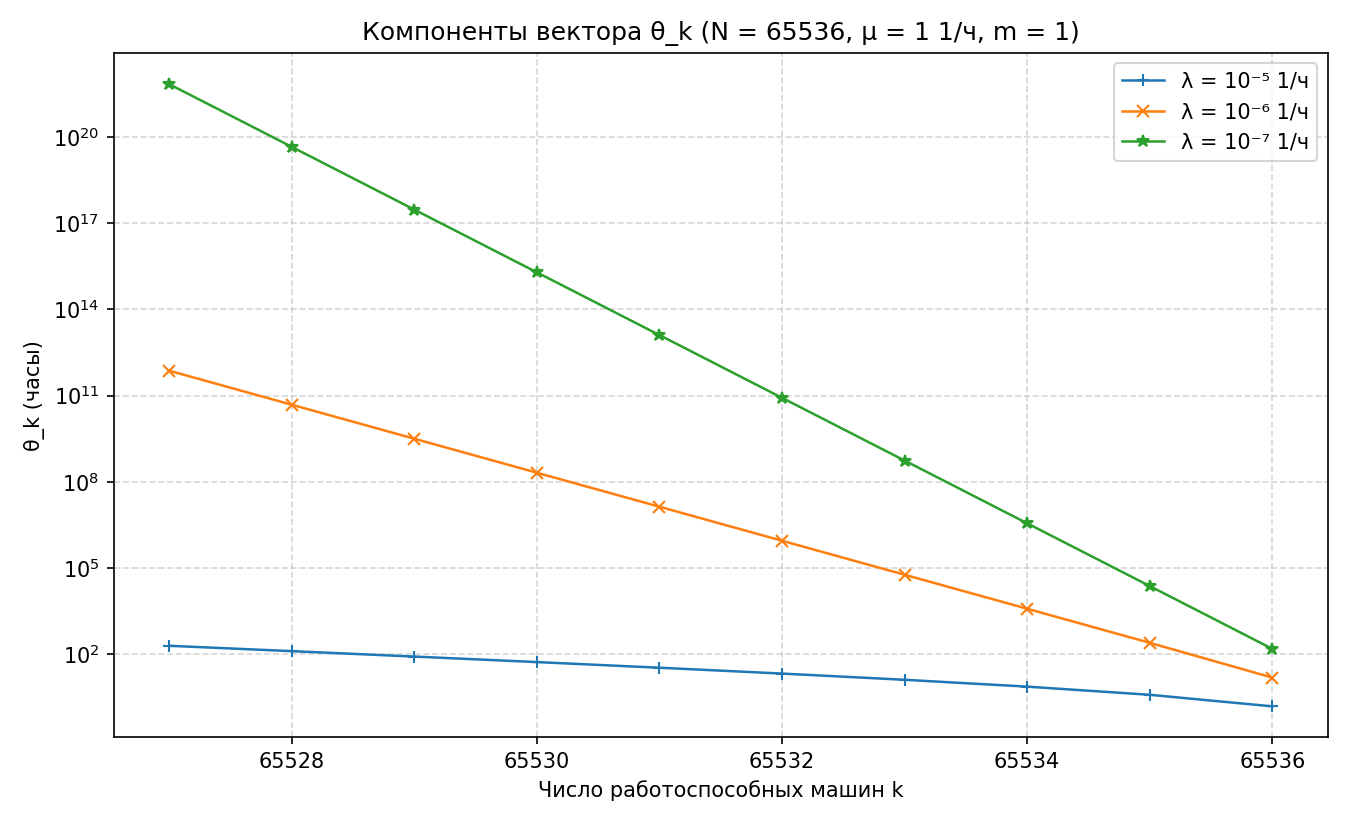
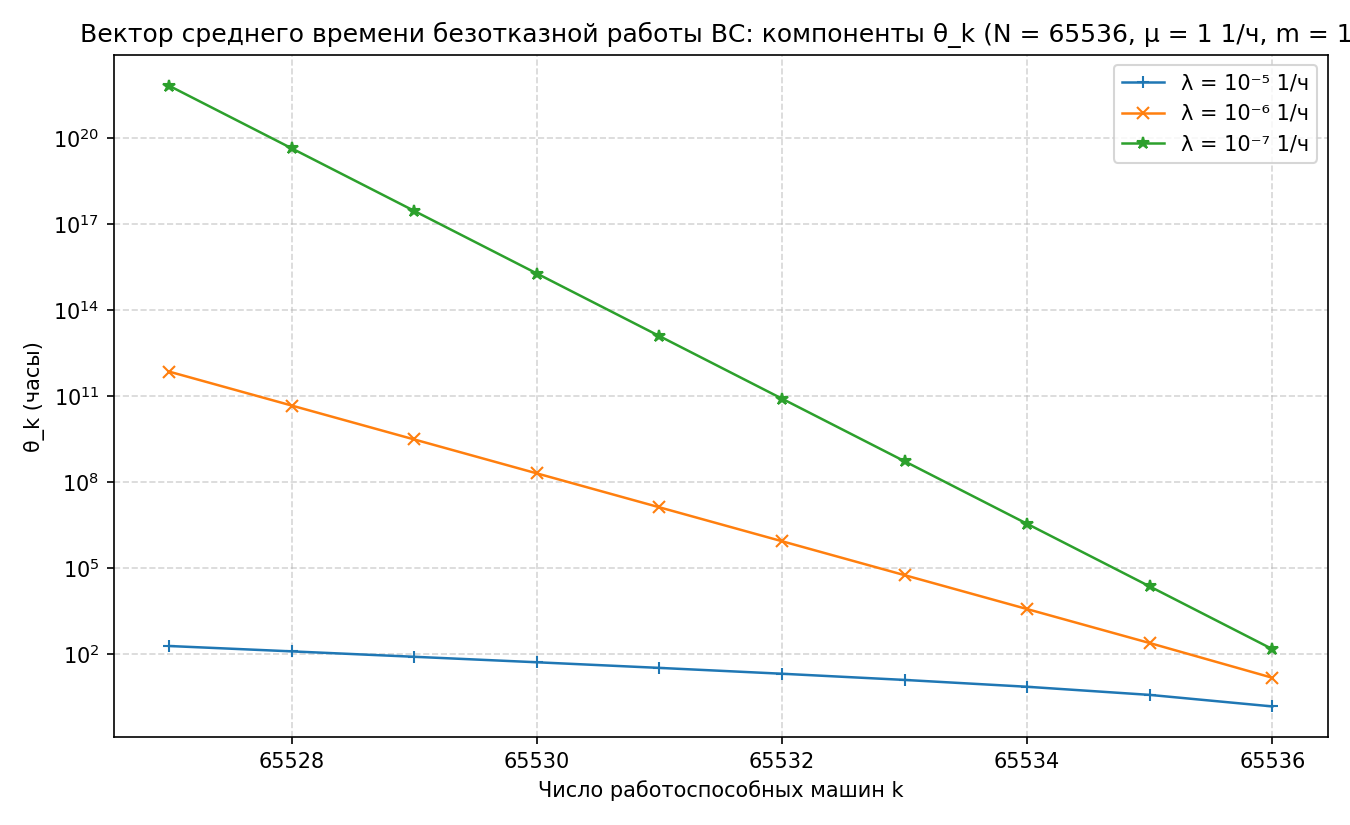
lab5

diff --git a/lab5/plot_py.py b/lab5/plot_py.py
@@ -1,4 +1,4 @@
-"""Matplotlib fallback for all 6 Lab 5 graphs."""
+"""Matplotlib fallback for all 8 Lab 5 graphs."""
 
 import os
 
@@ -27,7 +27,7 @@ labels = ["μ = 1 1/ч", "μ = 10 1/ч", "μ = 100 1/ч", "μ = 1000 1/ч"]
 markers = ["+", "x", "*", "s"]
 for i, (lbl, mk) in enumerate(zip(labels, markers)):
     ax.semilogy(d[:, 0], d[:, i + 1], label=lbl, marker=mk, markersize=6, linewidth=1.2)
-ax.set_title("Компоненты вектора θ_k (N = 65536, λ = 10⁻⁵ 1/ч, m = 1)")
+ax.set_title("Вектор среднего времени безотказной работы ВС: компоненты θ_k (N = 65536, λ = 10⁻⁵ 1/ч, m = 1)")
 ax.set_xlabel("Число работоспособных машин k")
 ax.set_ylabel("θ_k (часы)")
 ax.grid(True, which="both", linestyle="--", alpha=0.5)
@@ -40,7 +40,7 @@ labels = ["λ = 10⁻⁵ 1/ч", "λ = 10⁻⁶ 1/ч", "λ = 10⁻⁷ 1/ч"]
 markers = ["+", "x", "*"]
 for i, (lbl, mk) in enumerate(zip(labels, markers)):
     ax.semilogy(d[:, 0], d[:, i + 1], label=lbl, marker=mk, markersize=6, linewidth=1.2)
-ax.set_title("Компоненты вектора θ_k (N = 65536, μ = 1 1/ч, m = 1)")
+ax.set_title("Вектор среднего времени безотказной работы ВС: компоненты θ_k (N = 65536, μ = 1 1/ч, m = 1)")
 ax.set_xlabel("Число работоспособных машин k")
 ax.set_ylabel("θ_k (часы)")
 ax.grid(True, which="both", linestyle="--", alpha=0.5)
@@ -53,12 +53,22 @@ labels = ["m = 1", "m = 2", "m = 3"]
 markers = ["+", "x", "*"]
 for i, (lbl, mk) in enumerate(zip(labels, markers)):
     ax.semilogy(d[:, 0], d[:, i + 1], label=lbl, marker=mk, markersize=6, linewidth=1.2)
-ax.set_title("Компоненты вектора θ_k (N = 65536, λ = 10⁻⁵ 1/ч, μ = 1 1/ч)")
+ax.set_title("Вектор среднего времени безотказной работы ВС: компоненты θ_k (N = 65536, λ = 10⁻⁵ 1/ч, μ = 1 1/ч)")
 ax.set_xlabel("Число работоспособных машин k")
 ax.set_ylabel("θ_k (часы)")
 ax.grid(True, which="both", linestyle="--", alpha=0.5)
 ax.legend()
 save(fig, "plots/theta_m.png")
+
+d = load("data/theta_n_start.dat")
+fig, ax = plt.subplots(figsize=(9, 5.5))
+ax.semilogy(d[:, 0], d[:, 1], label="θ_n_start", marker="o", markersize=6, linewidth=1.4)
+ax.set_title("Вектор среднего времени безотказной работы ВС: зависимость θ_n_start от n_start")
+ax.set_xlabel("Минимально допустимое число работоспособных машин n_start")
+ax.set_ylabel("θ_n_start (часы)")
+ax.grid(True, which="both", linestyle="--", alpha=0.5)
+ax.legend()
+save(fig, "plots/theta_n_start.png")
 
 d = load("data/T_mu.dat")
 fig, ax = plt.subplots(figsize=(9, 5.5))
@@ -66,7 +76,7 @@ labels = ["μ = 1 1/ч", "μ = 10 1/ч", "μ = 100 1/ч", "μ = 1000 1/ч"]
 markers = ["+", "x", "*", "s"]
 for i, (lbl, mk) in enumerate(zip(labels, markers)):
     ax.semilogy(d[:, 0], d[:, i + 1], label=lbl, marker=mk, markersize=6, linewidth=1.2)
-ax.set_title("Компоненты вектора T_k (N = 65536, λ = 10⁻⁵ 1/ч, m = 1)")
+ax.set_title("Вектор среднего времени восстановления ВС: компоненты T_k (N = 65536, λ = 10⁻⁵ 1/ч, m = 1)")
 ax.set_xlabel("Число работоспособных машин k")
 ax.set_ylabel("T_k (часы)")
 ax.grid(True, which="both", linestyle="--", alpha=0.5)
@@ -79,7 +89,7 @@ labels = ["λ = 10⁻⁵ 1/ч", "λ = 10⁻⁶ 1/ч", "λ = 10⁻⁷ 1/ч"]
 markers = ["+", "x", "*"]
 for i, (lbl, mk) in enumerate(zip(labels, markers)):
     ax.plot(d[:, 0], d[:, i + 1], label=lbl, marker=mk, markersize=6, linewidth=1.2)
-ax.set_title("Компоненты вектора T_k (N = 65536, μ = 1 1/ч, m = 1)")
+ax.set_title("Вектор среднего времени восстановления ВС: компоненты T_k (N = 65536, μ = 1 1/ч, m = 1)")
 ax.set_xlabel("Число работоспособных машин k")
 ax.set_ylabel("T_k (часы)")
 ax.grid(True, linestyle="--", alpha=0.5)
@@ -92,11 +102,21 @@ labels = ["m = 1", "m = 2", "m = 3"]
 markers = ["+", "x", "*"]
 for i, (lbl, mk) in enumerate(zip(labels, markers)):
     ax.plot(d[:, 0], d[:, i + 1], label=lbl, marker=mk, markersize=6, linewidth=1.2)
-ax.set_title("Компоненты вектора T_k (N = 65536, λ = 10⁻⁵ 1/ч, μ = 1 1/ч)")
+ax.set_title("Вектор среднего времени восстановления ВС: компоненты T_k (N = 65536, λ = 10⁻⁵ 1/ч, μ = 1 1/ч)")
 ax.set_xlabel("Число работоспособных машин k")
 ax.set_ylabel("T_k (часы)")
 ax.grid(True, linestyle="--", alpha=0.5)
 ax.legend()
 save(fig, "plots/T_m.png")
 
-print("\nAll Lab 5 plots saved to plots/")
+d = load("data/T_n_start.dat")
+fig, ax = plt.subplots(figsize=(9, 5.5))
+ax.plot(d[:, 0], d[:, 1], label="T_n_start", marker="o", markersize=6, linewidth=1.4)
+ax.set_title("Вектор среднего времени восстановления ВС: зависимость T_n_start от n_start")
+ax.set_xlabel("Минимально допустимое число работоспособных машин n_start")
+ax.set_ylabel("T_n_start (часы)")
+ax.grid(True, linestyle="--", alpha=0.5)
+ax.legend()
+save(fig, "plots/T_n_start.png")
+
+print("\nAll Lab 5 plots (8 graphs) saved to plots/")

diff --git a/lab5/main.py b/lab5/main.py
@@ -19,6 +19,7 @@ MS = [1, 2, 3]
 N_START_VALUES = list(range(N - 9, N + 1))  # 65527..65536
 GRAPH_N_START = N - 9
 GRAPH_K_VALUES = list(range(GRAPH_N_START, N + 1))
+GRAPH_N_START_VALUES = N_START_VALUES
 
 
 def ensure_dirs() -> None:
@@ -49,17 +50,23 @@ def write_vectors_csv(path: str) -> None:
     print(f"  Written: {path}")
 
 
-def write_dat(path: str, k_values: list[int], columns: list[tuple[str, list[float]]], header: str = "") -> None:
-    """Write graph data with columns [k, series1, series2, ...]."""
+def write_dat(
+    path: str,
+    x_values: list[int],
+    columns: list[tuple[str, list[float]]],
+    header: str = "",
+    x_label: str = "k",
+) -> None:
+    """Write graph data with columns [x, series1, series2, ...]."""
     labels = "  ".join(label for label, _ in columns)
     with open(path, "w") as f:
         if header:
             f.write(f"# {header}\n")
-        f.write(f"# k  {labels}\n")
-        for idx, k in enumerate(k_values):
+        f.write(f"# {x_label}  {labels}\n")
+        for idx, x in enumerate(x_values):
             values = "  ".join(f"{series[idx]:.6e}" for _, series in columns)
-            f.write(f"{k}  {values}\n")
-    print(f"  Written: {path}  ({len(k_values)} rows, {len(columns)} series)")
+            f.write(f"{x}  {values}\n")
+    print(f"  Written: {path}  ({len(x_values)} rows, {len(columns)} series)")
 
 
 def component_series_theta(k_values: list[int], *, lam: float, mu: float, m: int) -> list[float]:
@@ -68,6 +75,14 @@ def component_series_theta(k_values: list[int], *, lam: float, mu: float, m: int
 
 def component_series_T(k_values: list[int], *, lam: float, mu: float, m: int) -> list[float]:
     return [compute_T_component(k, N, lam, mu, m) for k in k_values]
+
+
+def component_series_theta_n_start(n_start_values: list[int], *, lam: float, mu: float, m: int) -> list[float]:
+    return [compute_theta_component(n_start, N, lam, mu, m) for n_start in n_start_values]
+
+
+def component_series_T_n_start(n_start_values: list[int], *, lam: float, mu: float, m: int) -> list[float]:
+    return [compute_T_component(n_start, N, lam, mu, m) for n_start in n_start_values]
 
 
 def main() -> None:
@@ -144,7 +159,29 @@ def main() -> None:
         f"T_k, N={N}, lambda=1e-5, mu=1, n_start={GRAPH_N_START}",
     )
 
-    print("\nAll Lab 5 datasets written to data/")
+    theta_n_start_cols = [
+        ("lam=1e-5, mu=1, m=1", component_series_theta_n_start(GRAPH_N_START_VALUES, lam=1e-5, mu=1.0, m=1))
+    ]
+    write_dat(
+        "data/theta_n_start.dat",
+        GRAPH_N_START_VALUES,
+        theta_n_start_cols,
+        f"theta_n_start, N={N}, lambda=1e-5, mu=1, m=1",
+        x_label="n_start",
+    )
+
+    T_n_start_cols = [
+        ("lam=1e-5, mu=1, m=1", component_series_T_n_start(GRAPH_N_START_VALUES, lam=1e-5, mu=1.0, m=1))
+    ]
+    write_dat(
+        "data/T_n_start.dat",
+        GRAPH_N_START_VALUES,
+        T_n_start_cols,
+        f"T_n_start, N={N}, lambda=1e-5, mu=1, m=1",
+        x_label="n_start",
+    )
+
+    print("\nAll Lab 5 datasets (8 graphs) written to data/")
 
 
 if __name__ == "__main__":

diff --git a/lab5/README.md b/lab5/README.md
@@ -3,7 +3,7 @@
 - **Суть задачи**: исследовать живучую распределённую ВС, для которой важны не одиночные показатели, а целые векторы:
   - `θ = {θ_n, θ_n+1, ..., θ_N}` — компоненты среднего времени безотказной работы;
   - `T = {T_n, T_n+1, ..., T_N}` — компоненты среднего времени восстановления.
-- **Что делает программа**: по параметрам из методички перебирает все комбинации `λ`, `μ`, `m`, `n`, считает компоненты векторов частотным методом, сохраняет полную таблицу `data/vectors.csv` и строит 6 базовых графиков для проверки корректности.
+- **Что делает программа**: по параметрам из методички перебирает все комбинации `λ`, `μ`, `m`, `n`, считает компоненты векторов частотным методом, сохраняет полную таблицу `data/vectors.csv` и строит 8 базовых графиков для проверки корректности.
 
 ### Реализация
 
@@ -13,8 +13,8 @@
   - `compute_theta_vector(...)` и `compute_T_vector(...)` — собирают полный вектор по `k` от `n` до `N`.
 - `main.py`:
   - сохраняет полную нормализованную таблицу `data/vectors.csv` на `1980` строк;
-  - генерирует `.dat` для 6 графиков.
-- `plot_py.py` и `gnuplot/*.gp` — строят графики компонентов векторов при разных `λ`, `μ`, `m`.
+  - генерирует `.dat` для 8 графиков.
+- `plot_py.py` и `gnuplot/*.gp` — строят графики компонентов векторов при разных `λ`, `μ`, `m`, `n_start`.
 - `Makefile`:
   - `make data` — таблица и `.dat`;
   - `make plots` — PNG через `gnuplot`;
